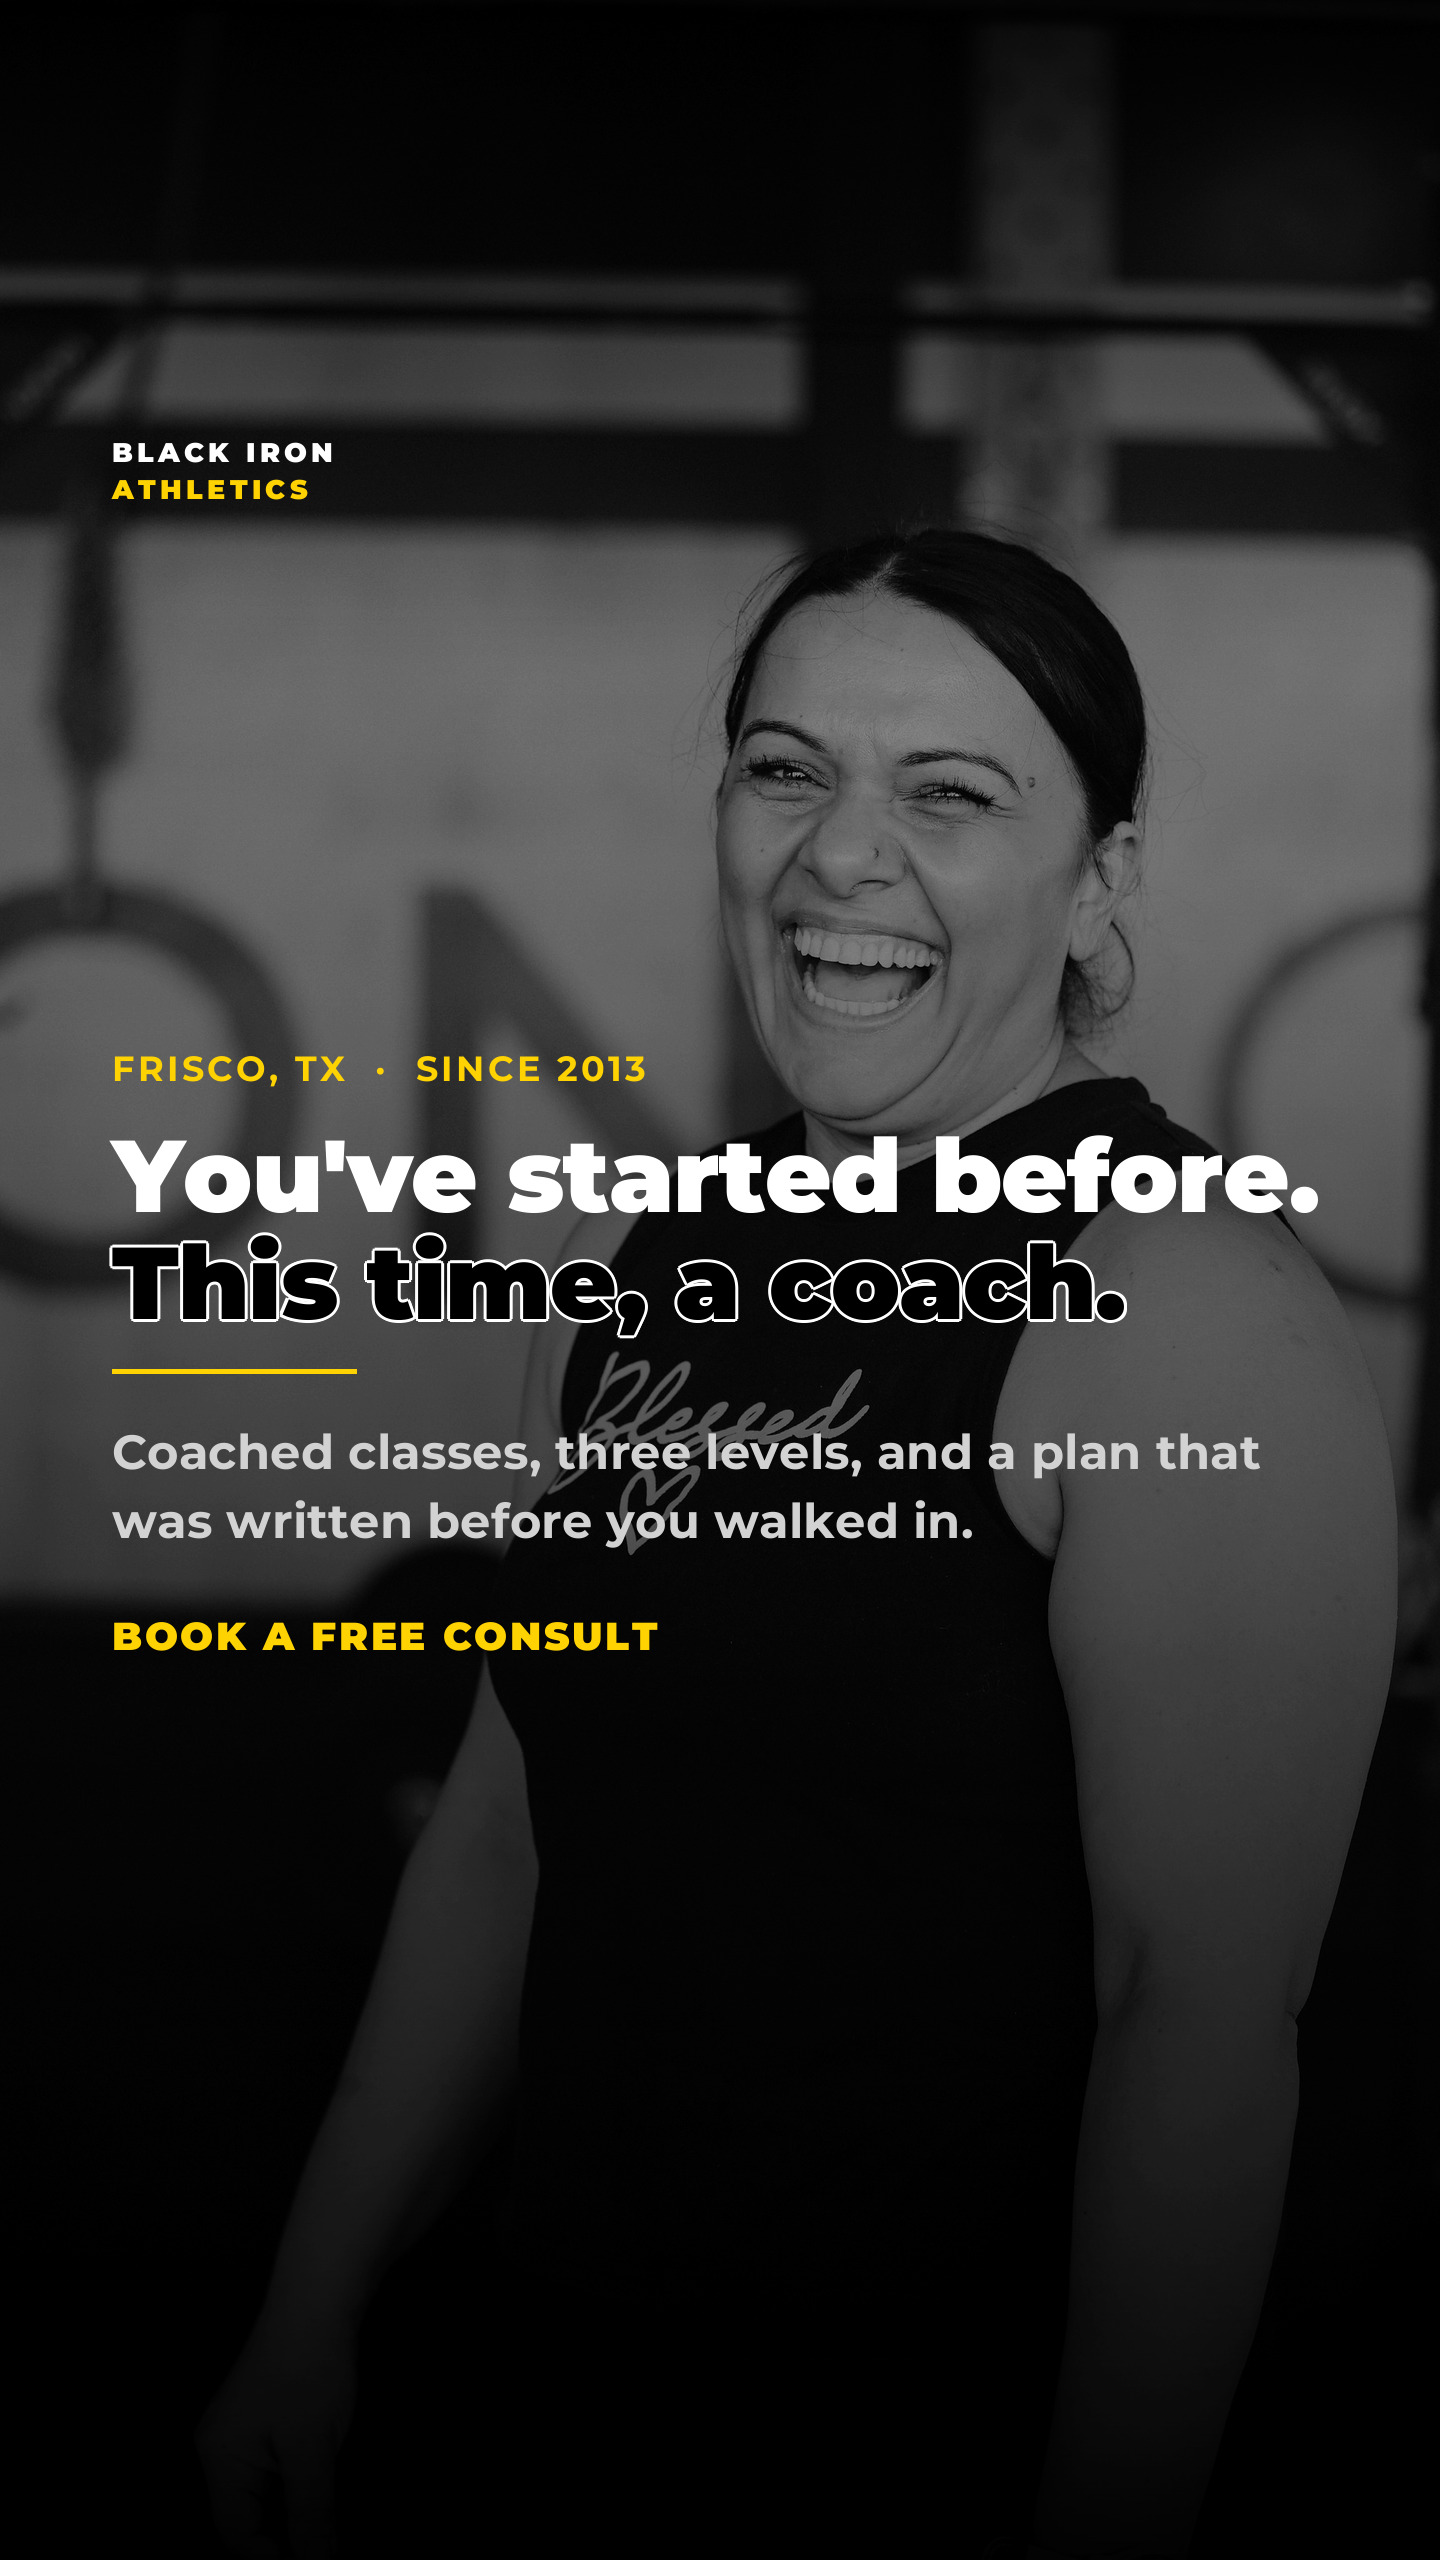
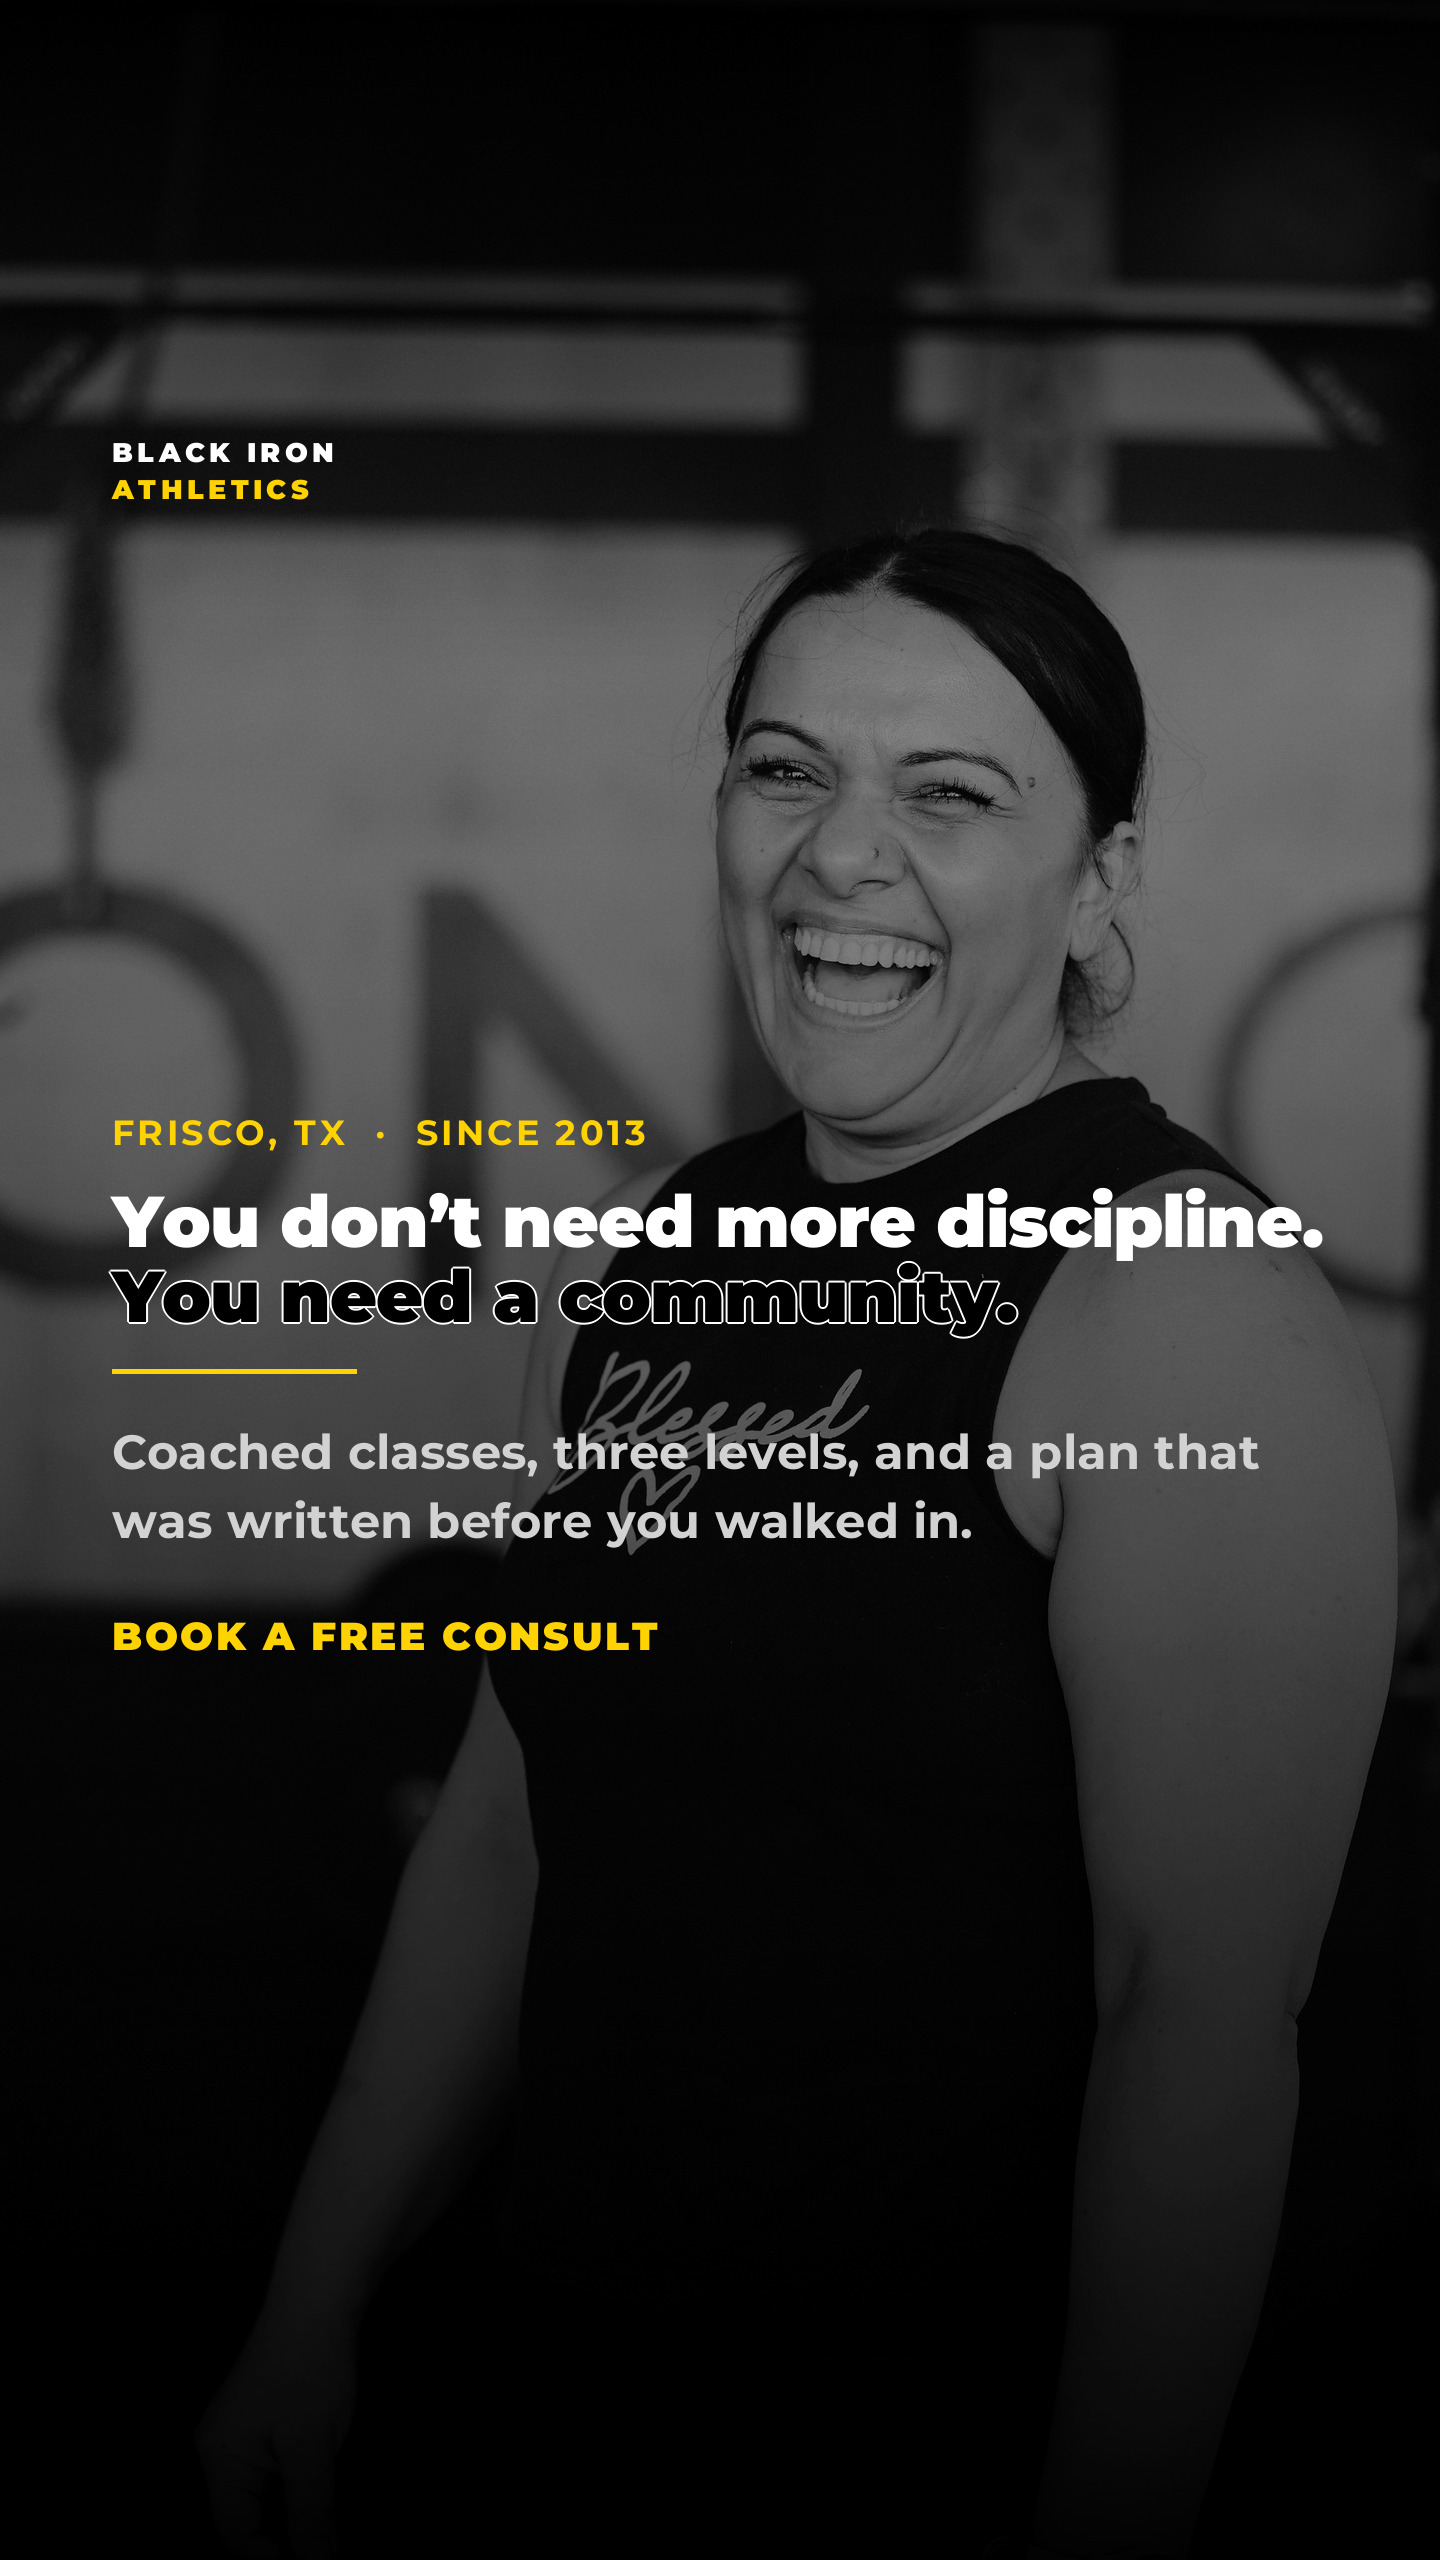
copy: the routine creative finishes its own sentence
"You've started before. This time, a coach." stalls where it should
land. The second half is a fragment with no verb, so the reader
supplies nothing and the reframe never arrives.

Michael's replacement: "You don't need more discipline. You need a
community." It removes the blame before it sells anything, which
matters because everyone in this audience has privately decided they
are the problem. Both shotgun concepts carry it.

Costs some display size, since the longer line sets about 30 percent
smaller than the old one. Worth it for a line that parses.

Curly apostrophe, per the handbook. The old line used a straight one.

Also: F() falls back to the Montserrat variable font when the static
TTFs are absent. Google no longer ships static Montserrat, so a fresh
clone following the note at the top of this file ends up with
Montserrat[wght].ttf and nothing named mont-900. Static stays first,
so anyone holding the old files sees no change.

All four 9:16 files still clear the Reels safe zone.

diff --git a/tools/ads.py b/tools/ads.py
@@ -45,7 +45,19 @@ SAFE = {"story": dict(base_f=0.610, lock_f=0.170),
 # --- type helpers -----------------------------------------------------------
 
 def F(weight, size):
-    return ImageFont.truetype(os.path.join(FONTS, f"mont-{weight}.ttf"), size)
+    """Static TTF if it is there, otherwise the variable font set to the axis.
+
+    Google stopped shipping static Montserrat: ofl/montserrat now holds only
+    Montserrat[wght].ttf, so a fresh clone that follows the instructions at the
+    top of this file ends up with a variable file and nothing named mont-900.
+    Both paths render identically, and keeping the static branch first means
+    anyone who already has the old files sees no change."""
+    static = os.path.join(FONTS, f"mont-{weight}.ttf")
+    if os.path.exists(static):
+        return ImageFont.truetype(static, size)
+    f = ImageFont.truetype(os.path.join(FONTS, "mont-var.ttf"), size)
+    f.set_variation_by_axes([weight])
+    return f
 
 
 def track(d, xy, text, font, fill, sp=0):
@@ -246,13 +258,17 @@ CONCEPTS = [
          foot="BOOK A FREE CONSULT"),
 
     # -> /start-routine
-    #    "You've started before and it didn't hold. This time you get a coach."
+    #    "You don't need more discipline. You need a community."
+    #    The first line removes the blame before anything is sold: everyone in
+    #    this audience has privately decided they are the problem. Replaces
+    #    "This time, a coach", which was a fragment with no verb and stalled
+    #    exactly where it needed to land.
     dict(key="shotgun-women",
          photo="images/members/3I1A0778.jpeg",
          focus={"feed": (.50, .08), "story": (.55, .08)},
          bw=True,   # shot monochrome; the flag keeps it that way if it is ever re-exported
          kicker="FRISCO, TX  ·  SINCE 2013",
-         big="You've started before.", outlined="This time, a coach.",
+         big="You don’t need more discipline.", outlined="You need a community.",
          sub="Coached classes, three levels, and a plan that was written before you walked in.",
          foot="BOOK A FREE CONSULT"),
 
@@ -260,7 +276,7 @@ CONCEPTS = [
          photo="images/members/3I1A0188.jpeg",
          focus={"feed": (.50, .10), "story": (.35, .10)},
          kicker="FRISCO, TX  ·  SINCE 2013",
-         big="You've started before.", outlined="This time, a coach.",
+         big="You don’t need more discipline.", outlined="You need a community.",
          sub="Coached classes, three levels, and a plan that was written before you walked in.",
          foot="BOOK A FREE CONSULT"),
 ]
